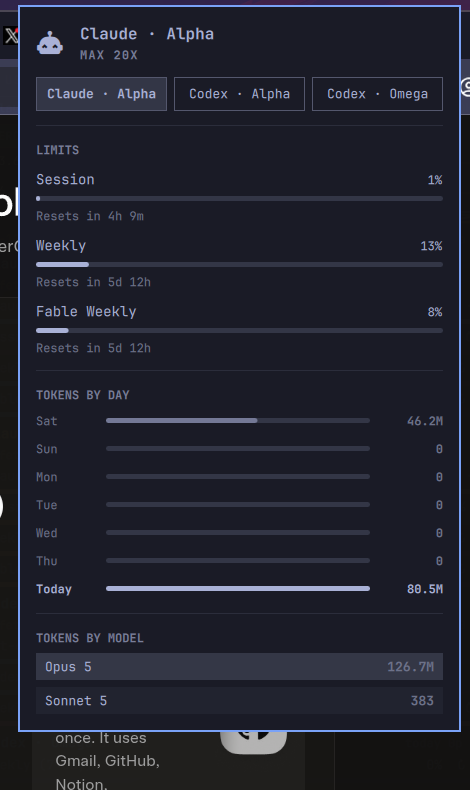
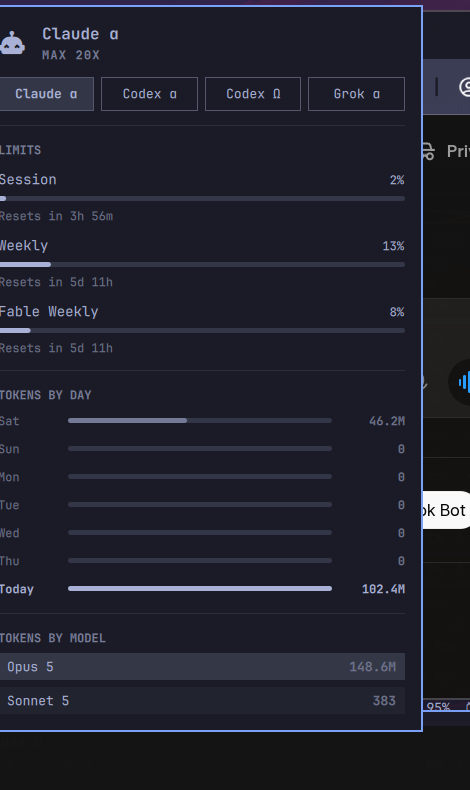
Short record names, sqlite session index, no empty records

diff --git a/README.md b/README.md
@@ -32,9 +32,9 @@ CLI you describe in a small JSON file.
   headroom, the tool switches to it. New launches only — running sessions
   never change.
 - **Stock Agents panel integration**: Omarchy's own `omarchy.agents` widget
-  shows one tab per profile ("Claude · Alpha", "Codex · Omega") with its full
-  charts, because this plugin writes per-profile usage records in the format
-  the stock collectors use.
+  shows one tab per account ("Claude α", "Codex Ω") with its full charts,
+  because this plugin writes per-account usage records in the format the
+  stock collectors use. Accounts appear there once they have recorded usage.
 
   ![stock Agents panel with one tab per profile](docs/stock-agents-tabs.png)
 - **CLI**: everything the bar does is `agent-acct …` in a terminal.

diff --git a/CHANGELOG.md b/CHANGELOG.md
@@ -2,6 +2,11 @@
 
 ## 0.3.0 — 2026-09-18
 
+- Usage records use short names ("Codex Ω") so the stock Agents panel's chip
+  row fits four or more accounts.
+- Local collector reads sqlite session indexes (Grok), scans only real session
+  directories, and writes no record when nothing was used — no phantom tabs.
+
 - Renamed to Multi-Account Agent Manager (`io.github.rationalseer.multi-account-agent-manager`).
 - Profile rows show the provider mark with the profile letter pinned to it.
 - `emailDisplay` setting: masked (default), hidden, full.
